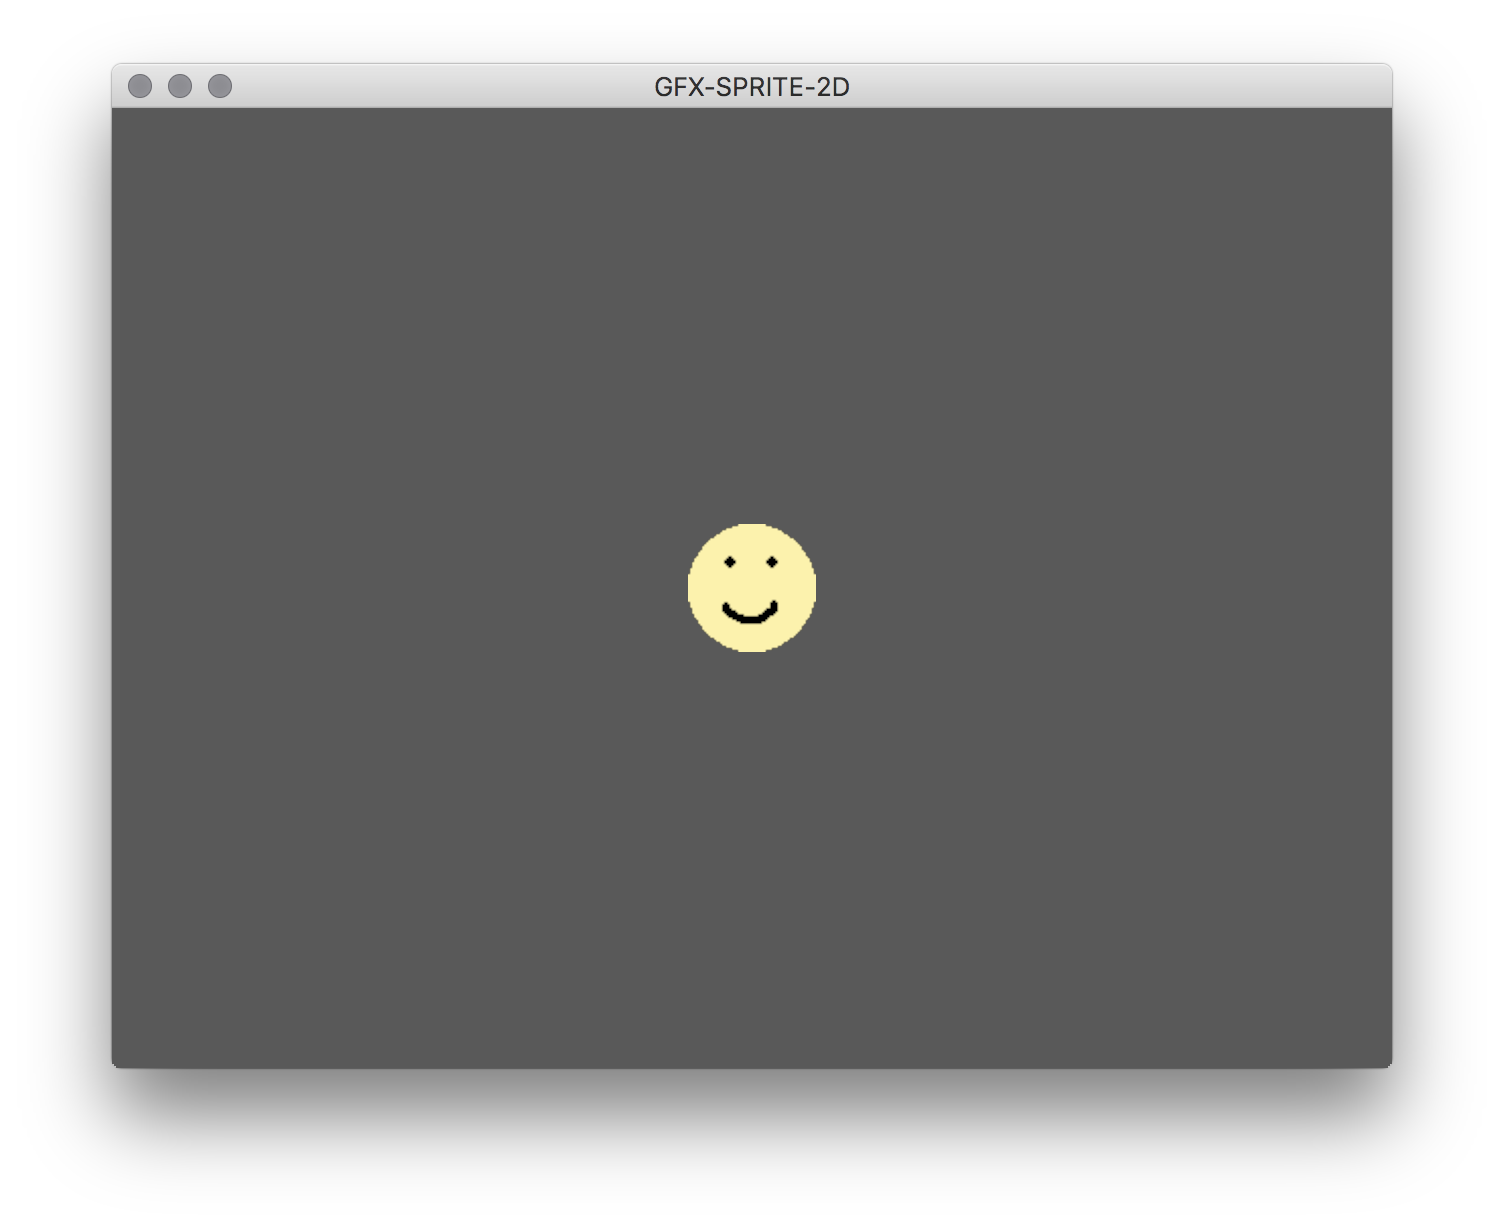
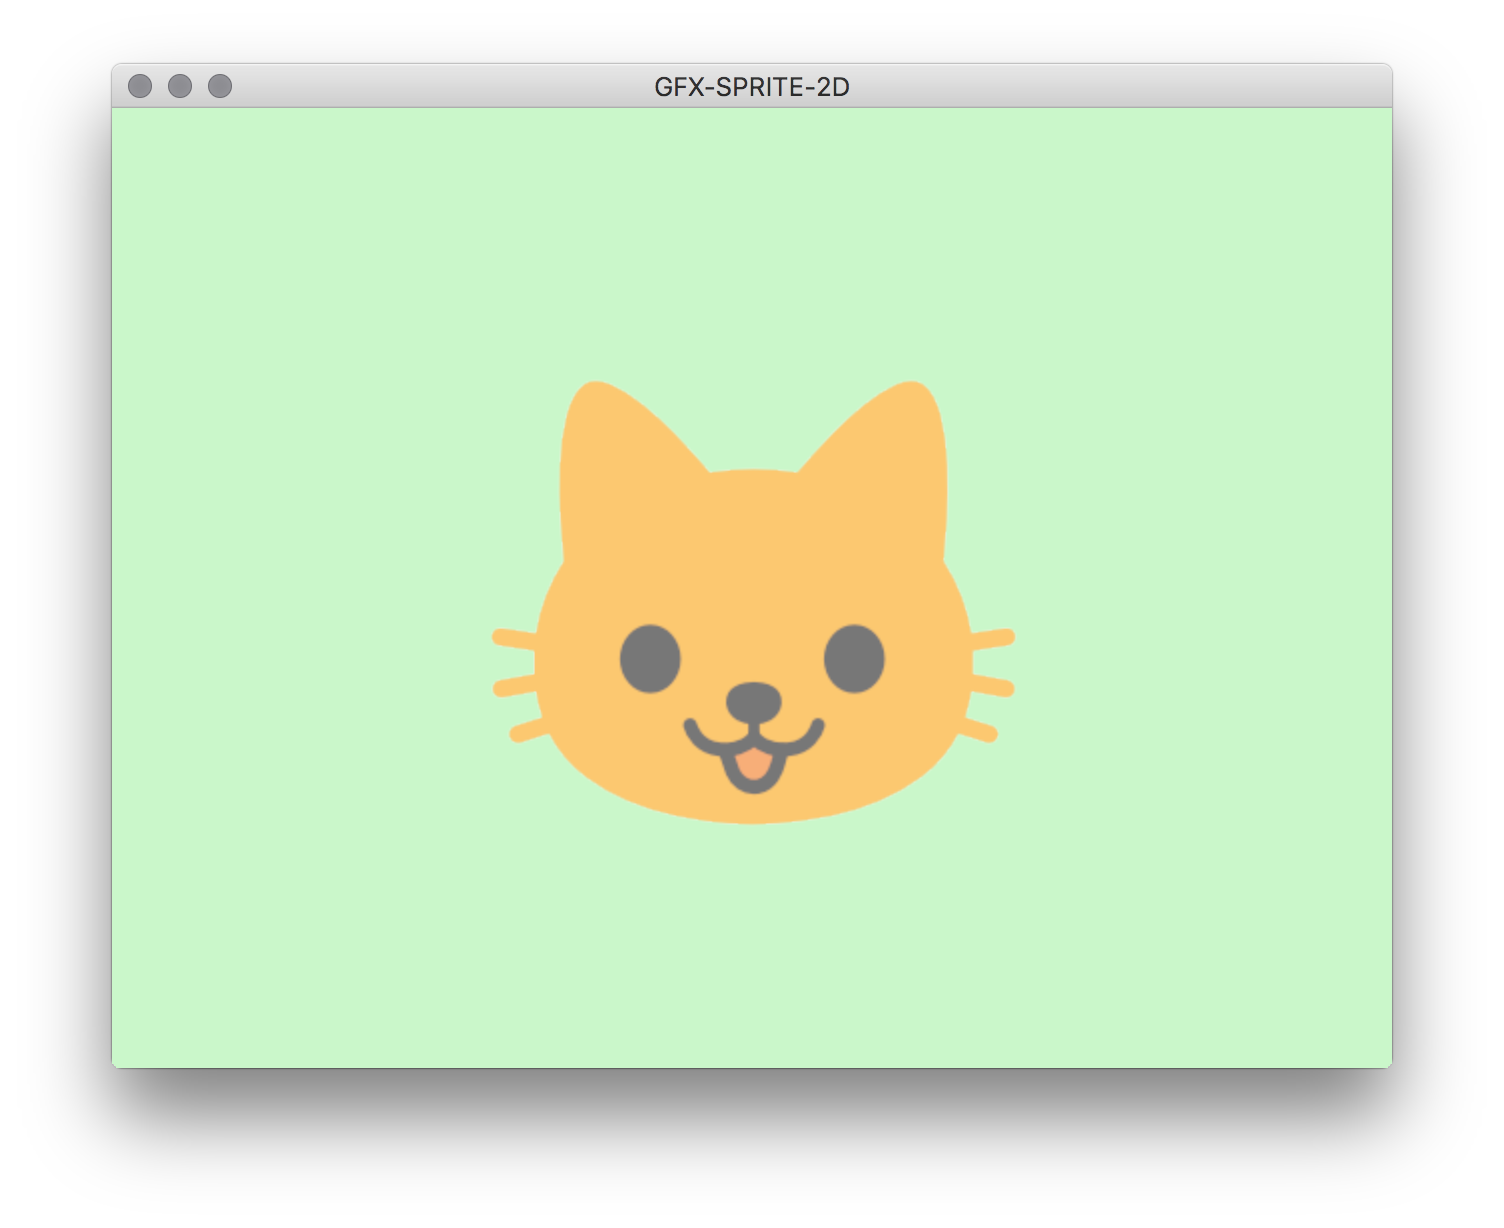
Updating image to cat emoji, updating colors, specifying alpha in readme

diff --git a/src/main.rs b/src/main.rs
@@ -29,7 +29,7 @@ gfx_defines!{
     }
 }
 
-const CLEAR_COLOR: [f32; 4] = [0.1, 0.1, 0.1, 1.0];
+const CLEAR_COLOR: [f32; 4] = [0.59, 0.93, 0.59, 1.0];
 
 // each texture quad's position and what point on the texture to tie it to
 const TEX_QUAD: [Vertex; 4] = [Vertex {
@@ -61,8 +61,8 @@ const WINDOW_TITLE: &'static str = "GFX-SPRITE-2D";
 
 const SPRITE_X: f32 = WINDOW_WIDTH as f32 / 2.0;
 const SPRITE_Y: f32 = WINDOW_HEIGHT as f32 / 2.0;
-const SPRITE_WIDTH: f32 = 64.0;
-const SPRITE_HEIGHT: f32 = 64.0;
+const SPRITE_WIDTH: f32 = 266.0;
+const SPRITE_HEIGHT: f32 = 266.0;
 
 // stolen from: https://github.com/gfx-rs/gfx/tree/master/examples/blend
 fn load_texture<R, F>(factory: &mut F,

diff --git a/README.md b/README.md
@@ -1,6 +1,6 @@
 # GFX-SPRITE-2D
 
-This is a basic example of a rendering a 64x64 png using [GFX](https://github.com/gfx-rs/gfx), [glutin](https://github.com/tomaka/glutin), [cgmath](https://github.com/brendanzab/cgmath), and [image](https://github.com/PistonDevelopers/image).
+This is a basic example of a rendering a 64x64 png with alpha transparency using [GFX](https://github.com/gfx-rs/gfx), [glutin](https://github.com/tomaka/glutin), [cgmath](https://github.com/brendanzab/cgmath), and [image](https://github.com/PistonDevelopers/image).
 
 This is my first step in learning GFX and trying to document my process, so please let me know if there is anything that is correct or could be done better.
 
